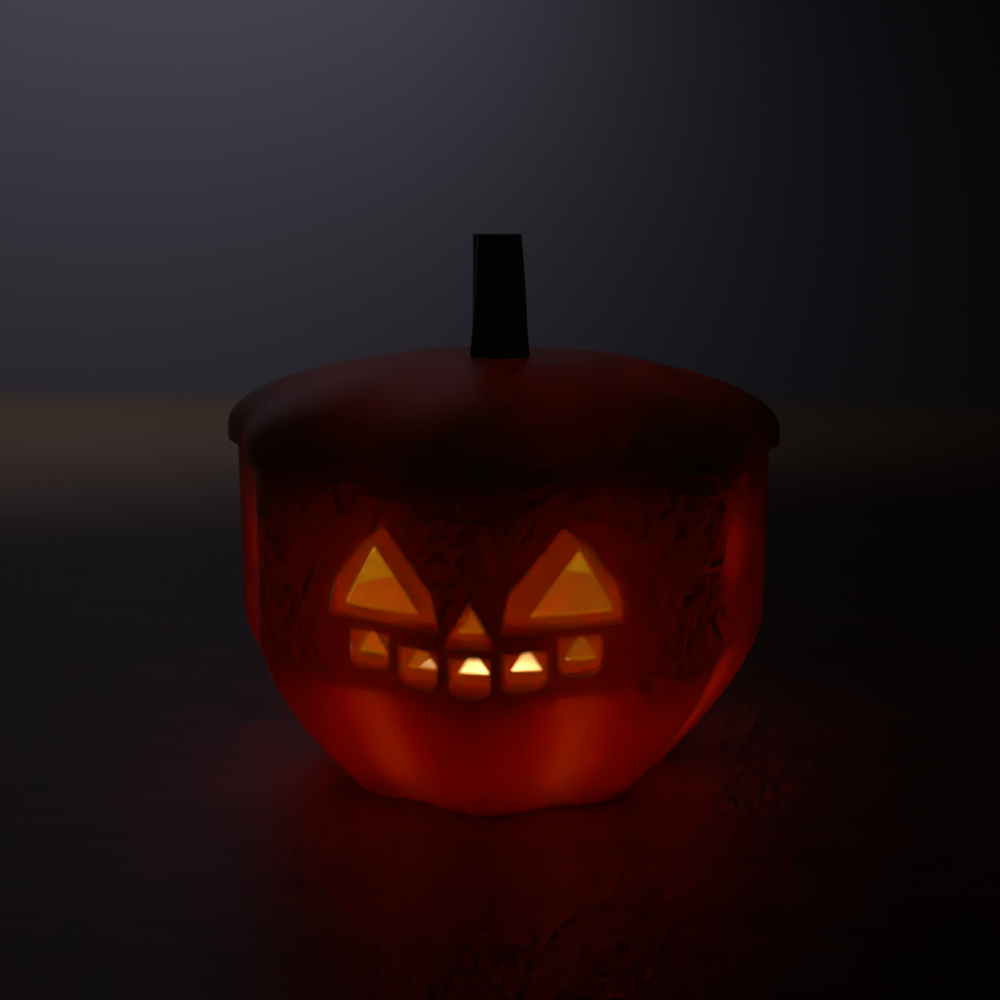
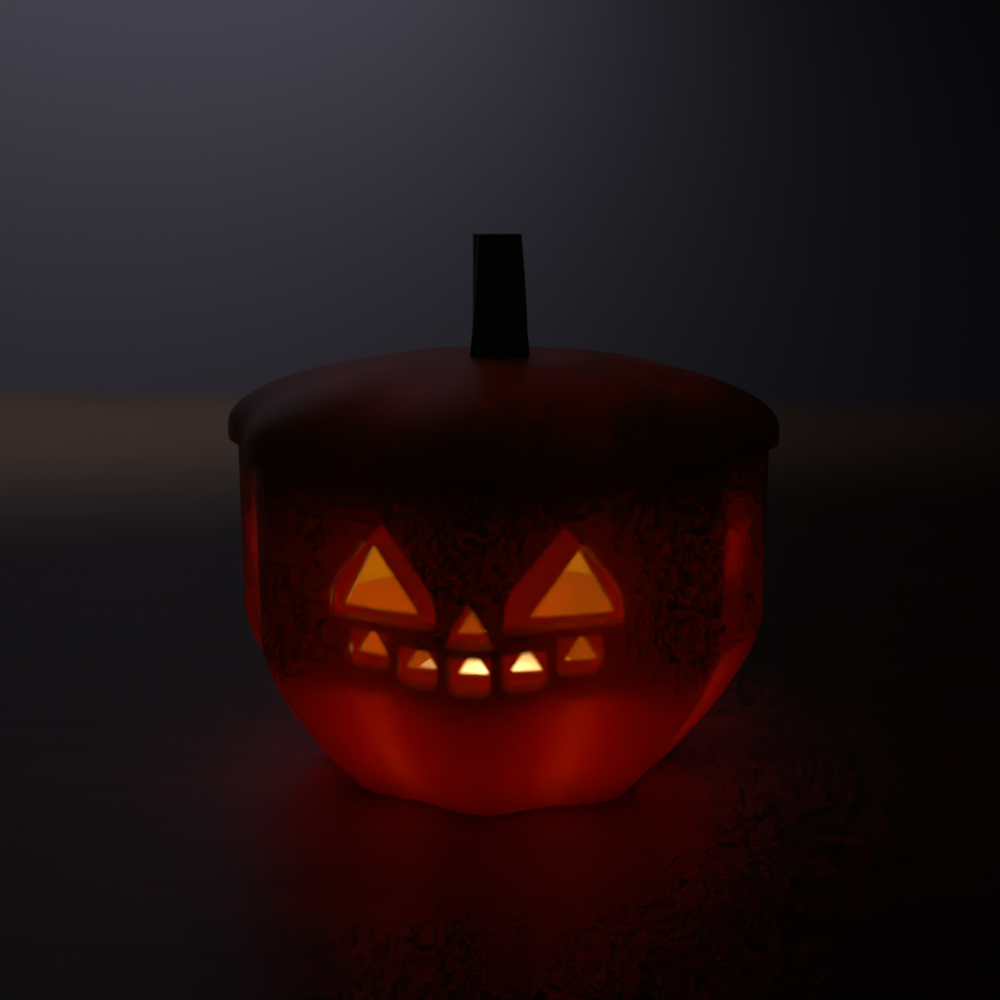
H-02 Moodkin: nachtrenders zonder ruis en met meer contrast
De schil gloeit nu via een translucent-menging in plaats van subsurface over
enkele mm (dat ruiste zichtbaar), de trommel gebruikt Burley-subsurface over
0,25 mm, en het indirecte licht wordt afgekapt tegen vuurvliegjes.

Claude-Session: https://claude.ai/code/session_01YAuEk4dMwLBzUtgRoytJuy

diff --git a/modellen/H-02-moodkin/cad/render.py b/modellen/H-02-moodkin/cad/render.py
@@ -28,12 +28,26 @@ KLEUR = {"schil": P.ORANJE, "trommel": P.GEEL, "deksel": P.ORANJE, "steel": P.GR
 VLAM_Z = P.VLOER + 16.0 + 9.0          # mm: potje van 16 mm, vlammetje erboven
 
 
-def doorschijnend(mat, diepte=0.0015):
-    """PLA laat een beetje licht door: subsurface over een paar mm."""
+def doorschijnend(mat, diepte):
+    """De dunne trommel laat een beetje licht door: subsurface over een fractie van een mm (Burley: ruist niet)."""
     b = mat.node_tree.nodes["Principled BSDF"]
     b.inputs["Subsurface Weight"].default_value = 1.0
     b.inputs["Subsurface Scale"].default_value = diepte
     b.inputs["Subsurface Radius"].default_value = (1.0, 0.45, 0.2)
+    b.subsurface_method = "BURLEY"
+
+
+def gloeiend(mat, mate=0.22, kleur=(1.0, 0.32, 0.04)):
+    """De dikke schil gloeit zacht: een deel van het licht gaat diffuus door de wand (translucent). Subsurface
+    over enkele mm geeft hetzelfde, maar ruist zichtbaar bij een lamp binnenin."""
+    nt = mat.node_tree
+    tr = nt.nodes.new("ShaderNodeBsdfTranslucent")
+    tr.inputs["Color"].default_value = (*kleur, 1)
+    mix = nt.nodes.new("ShaderNodeMixShader")
+    mix.inputs["Fac"].default_value = mate
+    nt.links.new(nt.nodes["Principled BSDF"].outputs[0], mix.inputs[1])
+    nt.links.new(tr.outputs[0], mix.inputs[2])
+    nt.links.new(mix.outputs[0], nt.nodes["Material Output"].inputs["Surface"])
 
 
 def lichtje(nacht):
@@ -62,8 +76,8 @@ def lichtje(nacht):
 def lantaarn(stand=0, open_=0.0, nacht=True):
     mats = BL.materialen(P.FILAMENTEN)
     if nacht:
-        doorschijnend(mats[P.ORANJE], 0.0008)
-        doorschijnend(mats[P.GEEL], 0.00025)      # de trommel is dunner: minder diep, anders gloeit hij even fel als de gaten
+        gloeiend(mats[P.ORANJE])
+        doorschijnend(mats[P.GEEL], 0.00025)      # niet dieper, anders gloeit de trommel even fel als de gaten
     for naam, m in L.samen(stand, open_).items():
         BL.voeg_toe(naam, m, mats[KLEUR[naam]])
     lichtje(nacht)
@@ -88,7 +102,8 @@ def nacht(stand, snel):
     donker()
     BL.camera((0.03, -0.30, 0.12), (0.0, 0.0, 0.058), lens=50, diafragma=8.0)
     pad = UIT / f"nacht_{P.GEZICHTEN[stand]}.png"
-    BL.render(pad, (1000, 1000), samples=320, snel=snel)     # veel samples: subsurface ruist
+    bpy.context.scene.cycles.sample_clamp_indirect = 3.0     # geen vuurvliegjes van het lichtje binnenin
+    BL.render(pad, (1000, 1000), samples=128, snel=snel)
     return pad
 
 
